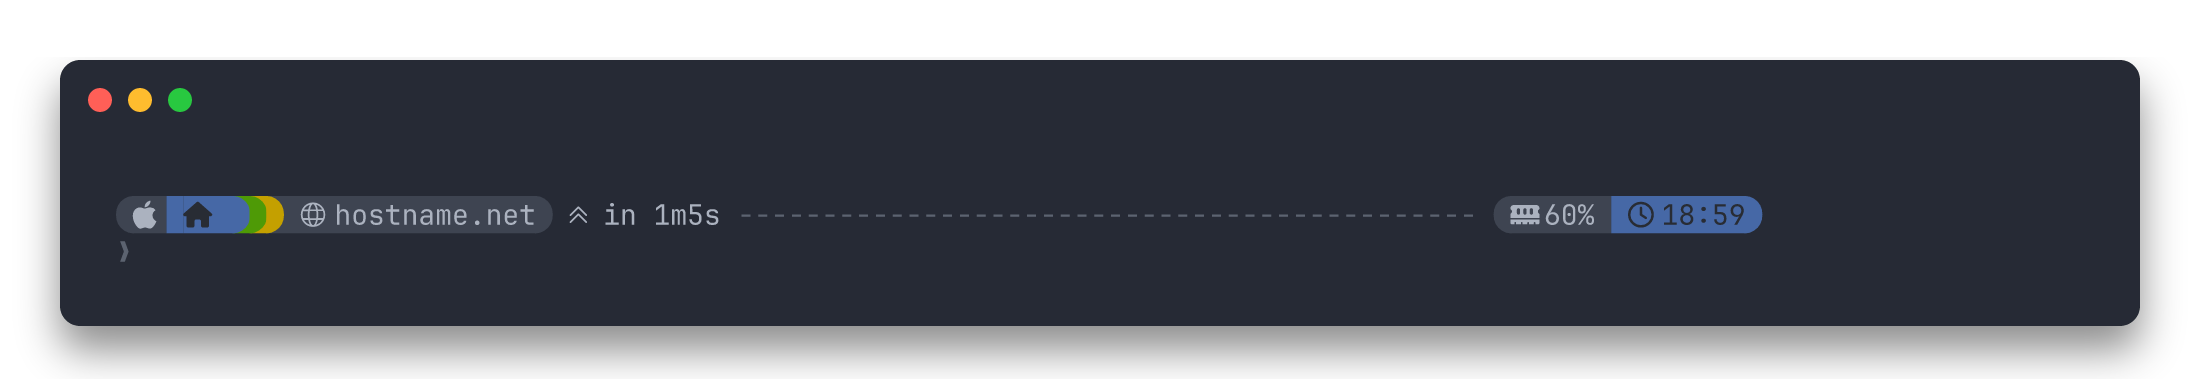
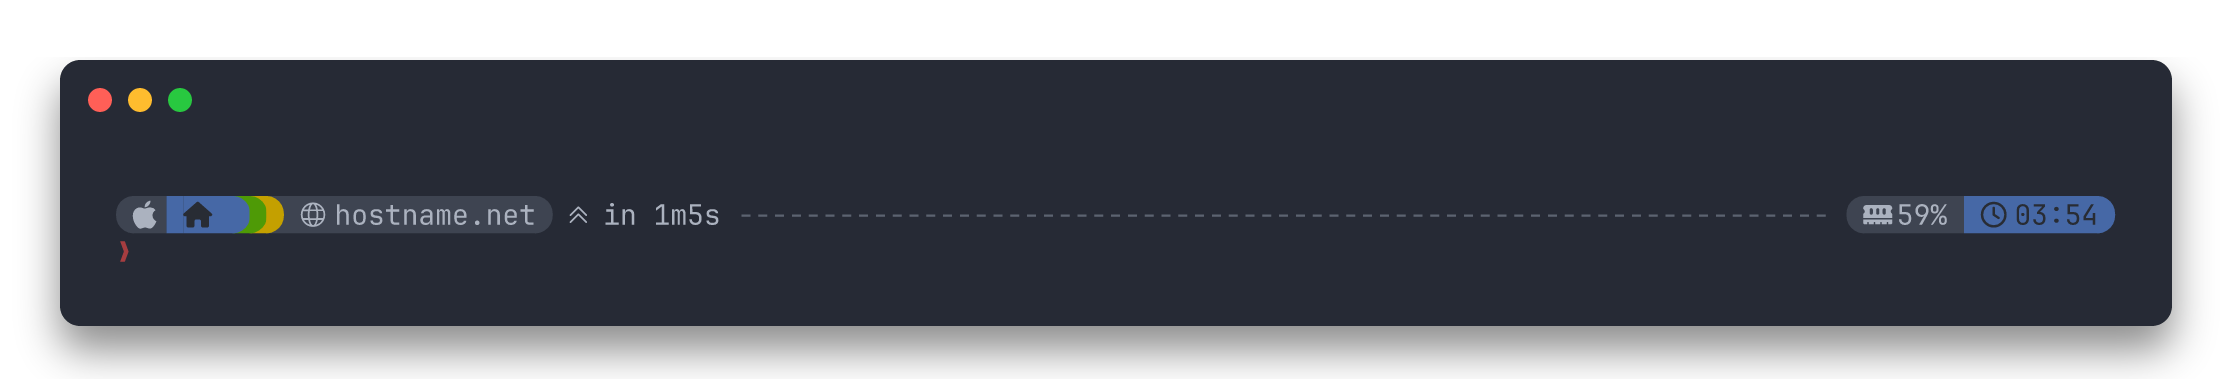
fix: widen the screenshot prompts and use Nerd Font git arrows (#8)
## What
The README screenshots now fill their window, and the git ahead, behind
and diverged markers use
`↑ ↓ ↕` instead of `⇡ ⇣ ⇕`.

## Why
The prompt was rendered on 96 columns in a window sized for about 117,
leaving a quarter of each
image empty. `⇡ ⇣ ⇕` are not in JetBrains Mono Nerd Font: resvg warned
on every run and drew them
with Arial Unicode MS, and terminals fall back the same way.

## How
`scripts/prompt-svg.py` sizes the window from the widest line instead of
a fixed 1040 px, so
`COLUMNS` in `scripts/screenshots.sh` (now 117) is the only knob. The
images are 2232 px wide; the
exact width follows the length of the real hostname, which is rewritten
to `hostname.net` after
rendering.

## Tests
`sh scripts/screenshots.sh` regenerates the eight images with no resvg
warning; shellcheck is clean
and `starship print-config` reports no error. taplo was not run locally,
CI runs it.

## Risk
Low. The arrows also change in the live prompt, which is the intent.

## Rollback
Revert the squash commit.

Changed region(s): [[0.68, 0.4974, 0.9582, 0.6218], [0.0618, 0.4974, 0.3709, 0.5907], [0.0309, 0.2176, 0.0927, 0.2798]]

diff --git a/scripts/prompt-svg.py b/scripts/prompt-svg.py
@@ -13,7 +13,6 @@ CELL_WIDTH = 0.6 * FONT_SIZE  # JetBrains Mono advance, icons included
 LINE_PITCH = 1.32 * FONT_SIZE
 GLYPH_ABOVE = 1.027 * FONT_SIZE  # powerline glyph box of the Nerd Font, yMax 1027 / yMin -307 per 1000 UPM
 GLYPH_BELOW = 0.307 * FONT_SIZE
-WINDOW_WIDTH = 1040
 MARGIN, PADDING, TITLE_BAR = 30, 28, 40
 BACKGROUND, FOREGROUND = "#282c34", "#abb2bf"
 TRAFFIC_LIGHTS = ("#ff5f57", "#febc2e", "#28c840")
@@ -62,8 +61,11 @@ def main():
     x0 = MARGIN + PADDING
     baseline0 = MARGIN + TITLE_BAR + PADDING + GLYPH_ABOVE
     height = MARGIN + TITLE_BAR + PADDING + rows * LINE_PITCH + PADDING + MARGIN
+    runs = list(parse(text))
+    columns = max(col + len(chunk) for _, col, chunk, *_ in runs)
+    window_width = round(2 * PADDING + columns * CELL_WIDTH)  # the window hugs the widest line
     rects, texts = [], []
-    for row, col, chunk, fg, bg, bold in parse(text):
+    for row, col, chunk, fg, bg, bold in runs:
         x = x0 + col * CELL_WIDTH
         baseline = baseline0 + row * LINE_PITCH
         if bg:
@@ -74,11 +76,11 @@ def main():
     lights = "".join('<circle cx="%d" cy="%d" r="6" fill="%s"/>' % (MARGIN + 20 + i * 20, MARGIN + 20, c)
                      for i, c in enumerate(TRAFFIC_LIGHTS))
     print('<svg xmlns="http://www.w3.org/2000/svg" width="%d" height="%.0f" viewBox="0 0 %d %.0f">'
-          % (WINDOW_WIDTH + 2 * MARGIN, height, WINDOW_WIDTH + 2 * MARGIN, height))
+          % (window_width + 2 * MARGIN, height, window_width + 2 * MARGIN, height))
     print('<defs><filter id="shadow" x="-10%" y="-10%" width="120%" height="130%">'
           '<feDropShadow dx="0" dy="12" stdDeviation="10" flood-opacity="0.45"/></filter></defs>')
     print('<rect x="%d" y="%d" width="%d" height="%.0f" rx="10" fill="%s" filter="url(#shadow)"/>'
-          % (MARGIN, MARGIN, WINDOW_WIDTH, height - 2 * MARGIN, BACKGROUND))
+          % (MARGIN, MARGIN, window_width, height - 2 * MARGIN, BACKGROUND))
     print(lights)
     print("\n".join(rects))
     print('<g font-family="%s" font-size="%d" xml:space="preserve">' % (escape(font), FONT_SIZE))

diff --git a/docs/SETUP.md b/docs/SETUP.md
@@ -17,9 +17,9 @@ STARSHIP_CONFIG=./starship.toml starship print-config --default false
 sh scripts/screenshots.sh
 ```
 
-Writes `screenshots/starship-theme-brei0x-*.png` (2200 px wide, 2x) from `starship.toml`: one `preview`
-sequence and one image per state (`home`, `git`, `languages`, `ssh`, `read-only`, `duration-error`, `vim`).
-Every state is rendered by `starship prompt` against temporary fixtures, so no real shell, repository or
+Writes `screenshots/starship-theme-brei0x-*.png` (117 columns, about 2230 px wide at 2x) from
+`starship.toml`: one `preview` sequence and one image per state (`home`, `git`, `languages`, `ssh`,
+`read-only`, `duration-error`, `vim`). Every state is rendered by `starship prompt` against temporary fixtures, so no real shell, repository or
 server is involved: the git state is a scratch repository one commit ahead with modified, staged and
 untracked files, the SSH state sets `SSH_CONNECTION`, the hostname is rewritten to `hostname.net`.
 
@@ -34,7 +34,8 @@ brew install --cask font-jetbrains-mono-nerd-font
 ```
 
 The font must be the plain `JetBrainsMono Nerd Font`, not the `Mono` variant whose icons are shrunk
-to one cell. `⇡` and `⇣` are not in the font and fall back to a system font, as in a terminal.
+to one cell. Every glyph in `starship.toml` must exist in it, or resvg warns and falls back to a
+system font.
 
 Not reproducible this way, so not captured: the root user (uid 0). Time and memory values change on
 every run, so a regeneration always produces a diff.
